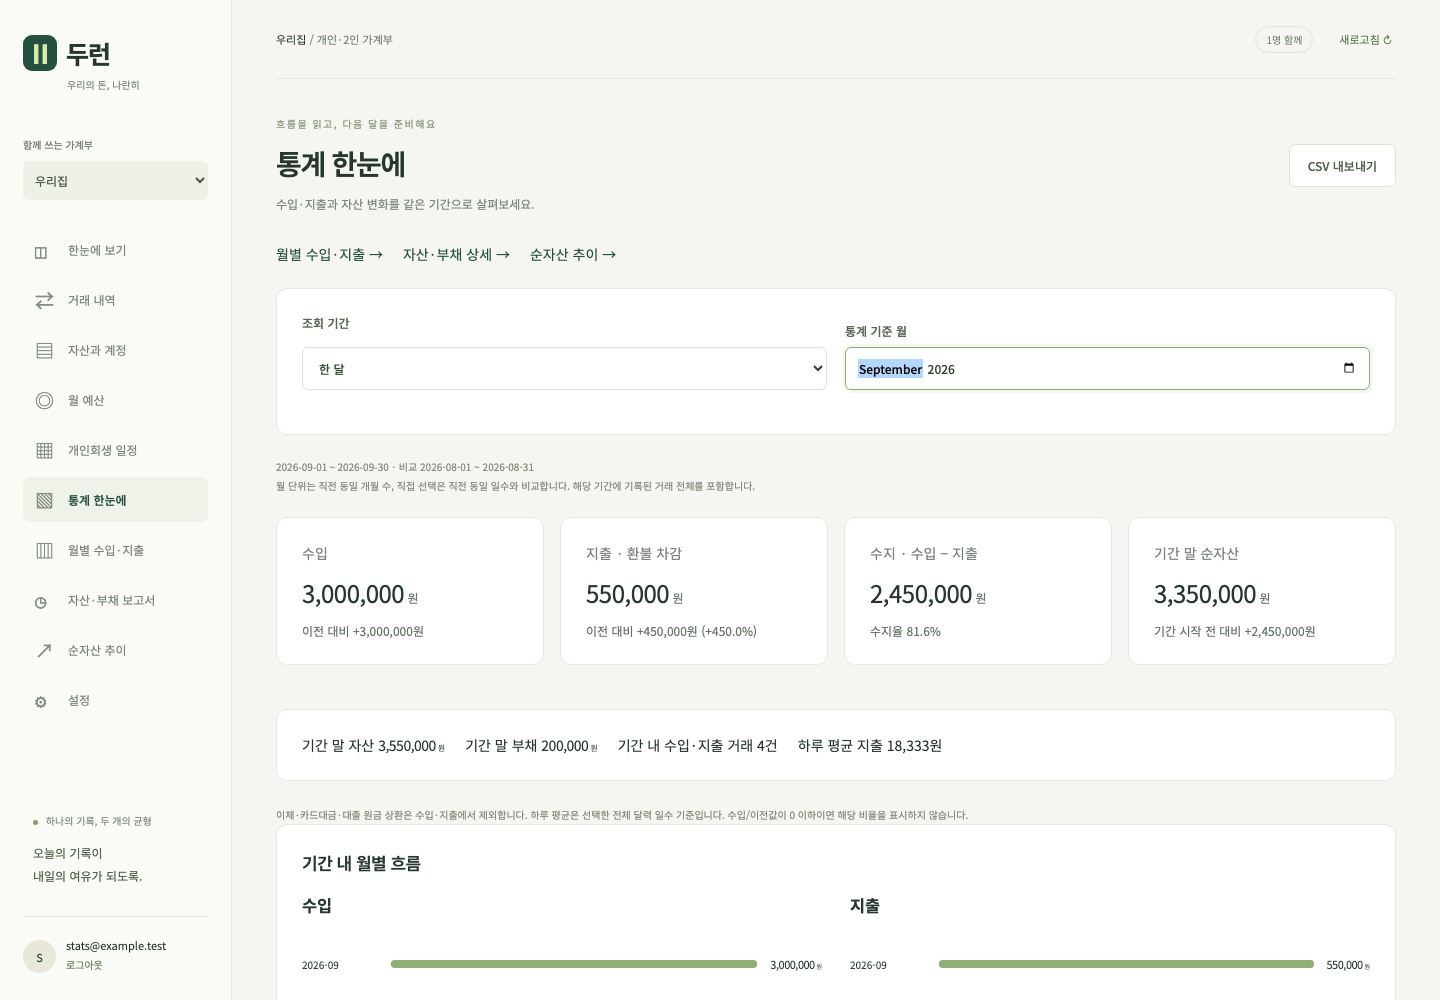
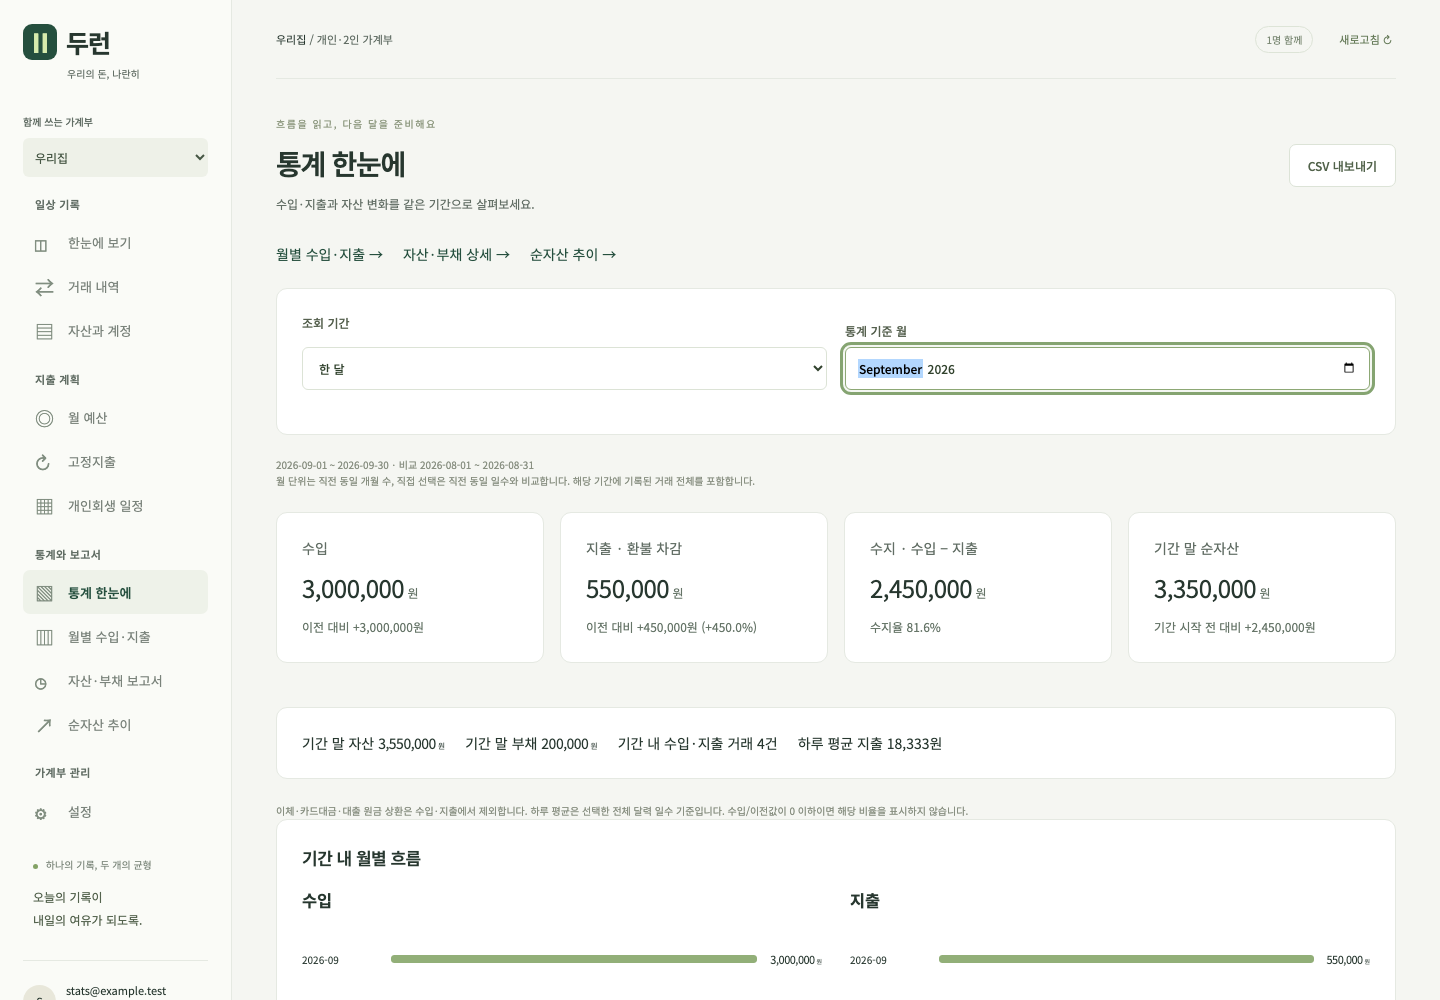
feat: improve mobile navigation and shared UI accessibility

diff --git a/app/layouts/default.vue b/app/layouts/default.vue
@@ -17,6 +17,36 @@ const links = [
   ['/reports/net-worth', '↗', '순자산 추이'],
   ['/settings', '⚙', '설정'],
 ]
+const menuOpen = ref(false)
+const menuToggle = ref<HTMLButtonElement | null>(null)
+const menuPanel = ref<HTMLElement | null>(null)
+const groups = [
+  { title: '일상 기록', items: links.slice(0, 3) },
+  { title: '지출 계획', items: links.slice(3, 6) },
+  { title: '통계와 보고서', items: links.slice(6, 10) },
+  { title: '가계부 관리', items: links.slice(10) },
+]
+const primaryLinks = [links[0]!, links[1]!, links[4]!, links[6]!]
+function isActive(href: string) {
+  return href === '/reports' ? route.path === href : route.path.startsWith(href)
+}
+async function toggleMenu() {
+  menuOpen.value = !menuOpen.value
+  if (menuOpen.value) {
+    await nextTick()
+    menuPanel.value?.querySelector<HTMLAnchorElement>('a')?.focus()
+  }
+}
+function closeMenu() {
+  menuOpen.value = false
+  menuToggle.value?.focus()
+}
+watch(
+  () => route.path,
+  () => {
+    menuOpen.value = false
+  },
+)
 watch(
   () => auth.user.value?.id,
   async (id) => {
@@ -45,6 +75,7 @@ async function logout() {
 </script>
 <template>
   <div class="shell">
+    <a class="skip-link" href="#main-content">본문으로 건너뛰기</a>
     <aside class="sidebar">
       <NuxtLink to="/dashboard" class="brand"
         ><span class="brand-mark">Ⅱ</span> 두런<span class="brand-caption"
@@ -58,17 +89,20 @@ async function logout() {
           <option v-for="h in households" :key="h.id" :value="h.id">{{ h.name }}</option>
         </select>
       </div>
-      <nav aria-label="주 메뉴">
-        <NuxtLink
-          v-for="[href, icon, label] in links"
-          :key="href"
-          :to="href!"
-          :class="{
-            active: href === '/reports' ? route.path === href : route.path.startsWith(href!),
-          }"
-          ><span aria-hidden="true">{{ icon }}</span
-          >{{ label }}</NuxtLink
-        >
+      <nav class="desktop-navigation" aria-label="주 메뉴">
+        <div v-for="group in groups" :key="group.title" class="navigation-group">
+          <p class="navigation-title">{{ group.title }}</p>
+          <NuxtLink
+            v-for="[href, icon, label] in group.items"
+            :key="href"
+            :to="href!"
+            :class="{ active: isActive(href!) }"
+            :aria-current="isActive(href!) ? 'page' : undefined"
+          >
+            <span aria-hidden="true">{{ icon }}</span
+            >{{ label }}
+          </NuxtLink>
+        </div>
       </nav>
       <div class="sidebar-note">
         <span class="status-dot"></span> 하나의 기록, 두 개의 균형
@@ -82,7 +116,34 @@ async function logout() {
         </div>
       </div>
     </aside>
-    <main class="main">
+    <main id="main-content" class="main" tabindex="-1">
+      <section
+        v-if="menuOpen"
+        id="mobile-menu"
+        ref="menuPanel"
+        class="mobile-menu panel"
+        aria-label="전체 메뉴"
+        @keydown.esc.prevent="closeMenu"
+      >
+        <div class="section-title">
+          <h2>전체 메뉴</h2>
+          <button class="text-button" @click="closeMenu">닫기 ✕</button>
+        </div>
+        <nav aria-label="전체 화면">
+          <div v-for="group in groups" :key="group.title" class="navigation-group">
+            <p class="navigation-title">{{ group.title }}</p>
+            <NuxtLink
+              v-for="[href, icon, label] in group.items"
+              :key="href"
+              :to="href!"
+              :class="{ active: isActive(href!) }"
+              :aria-current="isActive(href!) ? 'page' : undefined"
+              ><span aria-hidden="true">{{ icon }}</span
+              >{{ label }}</NuxtLink
+            >
+          </div>
+        </nav>
+      </section>
       <header class="topbar">
         <span
           >{{ current?.name || '새로운 시작' }} <span class="muted">/ 개인·2인 가계부</span></span
@@ -112,5 +173,25 @@ async function logout() {
         두런 <span>차곡차곡 기록하는 우리 집 이야기.</span><span>KRW · 원화 기준</span>
       </footer>
     </main>
+    <nav class="mobile-navigation" aria-label="빠른 이동">
+      <NuxtLink
+        v-for="[href, icon, label] in primaryLinks"
+        :key="href"
+        :to="href!"
+        :class="{ active: isActive(href!) }"
+        :aria-current="isActive(href!) ? 'page' : undefined"
+        ><span aria-hidden="true">{{ icon }}</span
+        >{{ label }}</NuxtLink
+      >
+      <button
+        ref="menuToggle"
+        :aria-expanded="menuOpen"
+        aria-controls="mobile-menu"
+        :class="{ active: menuOpen }"
+        @click="toggleMenu"
+      >
+        <span aria-hidden="true">☰</span>전체 메뉴
+      </button>
+    </nav>
   </div>
 </template>

diff --git a/app/assets/main.css b/app/assets/main.css
@@ -1897,3 +1897,191 @@ footer > span:last-child {
     flex: 1;
   }
 }
+
+/* Consistent navigation, readable supporting text, and touch targets. */
+:root {
+  --muted: #626e65;
+}
+.money,
+.money-value,
+input[type='number'],
+td {
+  font-variant-numeric: tabular-nums;
+}
+.skip-link {
+  position: fixed;
+  top: 8px;
+  left: 16px;
+  z-index: 100;
+  padding: 12px 18px;
+  background: var(--green);
+  color: white;
+  transform: translateY(-160%);
+  border-radius: 8px;
+}
+.skip-link:focus {
+  transform: translateY(0);
+}
+.sidebar {
+  overflow-y: auto;
+  padding-top: 24px;
+}
+.household-picker {
+  margin: 25px 0 18px;
+}
+.navigation-group + .navigation-group {
+  margin-top: 12px;
+}
+.navigation-title {
+  margin: 0 12px 6px;
+  font-size: 11px;
+  font-weight: 600;
+  color: var(--muted);
+  letter-spacing: 0.03em;
+}
+.sidebar nav a {
+  font-size: 13px;
+  padding: 10px 12px;
+  min-height: 44px;
+}
+.sidebar-note {
+  padding-top: 24px;
+}
+.mobile-navigation,
+.mobile-menu {
+  display: none;
+}
+.fineprint,
+.small,
+small {
+  line-height: 1.65;
+}
+input:focus-visible,
+select:focus-visible,
+textarea:focus-visible {
+  outline: 3px solid #85a471;
+  outline-offset: 2px;
+}
+@media (max-width: 760px) {
+  .sidebar .desktop-navigation {
+    display: none;
+  }
+  .sidebar {
+    overflow: visible;
+  }
+  .household-picker {
+    margin: 0;
+    max-width: 52%;
+  }
+  .main {
+    padding-bottom: calc(86px + env(safe-area-inset-bottom));
+  }
+  .topbar {
+    font-size: 12px;
+    margin-bottom: 20px;
+  }
+  .topbar > div {
+    gap: 4px;
+  }
+  .topbar .text-button {
+    min-height: 44px;
+    padding: 6px;
+  }
+  .member-badge {
+    display: none;
+  }
+  .page-heading p,
+  .fineprint,
+  .small,
+  small {
+    font-size: 12px;
+  }
+  .eyebrow {
+    font-size: 11px;
+  }
+  input,
+  select,
+  textarea {
+    font-size: 16px;
+    min-height: 44px;
+  }
+  .button,
+  button.button {
+    min-height: 44px;
+  }
+  .mobile-navigation {
+    display: grid;
+    grid-template-columns: repeat(5, minmax(0, 1fr));
+    position: fixed;
+    bottom: 0;
+    left: 0;
+    right: 0;
+    z-index: 30;
+    padding: 7px 8px calc(7px + env(safe-area-inset-bottom));
+    background: #fafbf7;
+    border-top: 1px solid var(--line);
+    box-shadow: 0 -4px 20px #27372f08;
+  }
+  .mobile-navigation a,
+  .mobile-navigation button {
+    display: flex;
+    flex-direction: column;
+    align-items: center;
+    justify-content: center;
+    gap: 4px;
+    min-height: 52px;
+    border: 0;
+    background: transparent;
+    border-radius: 8px;
+    color: var(--muted);
+    font-size: 10px;
+    white-space: nowrap;
+    padding: 4px 0;
+  }
+  .mobile-navigation span {
+    font-size: 21px;
+    line-height: 1;
+  }
+  .mobile-navigation .active {
+    color: var(--green);
+    background: #e7eedc;
+    font-weight: 700;
+  }
+  .mobile-menu {
+    display: block;
+    margin-top: 18px;
+    padding: 18px;
+  }
+  .mobile-menu nav {
+    display: grid;
+    grid-template-columns: repeat(2, minmax(0, 1fr));
+    gap: 14px 8px;
+  }
+  .mobile-menu .navigation-group {
+    margin: 0;
+  }
+  .mobile-menu .navigation-title {
+    margin-left: 0;
+  }
+  .mobile-menu a {
+    display: flex;
+    gap: 6px;
+    align-items: center;
+    min-height: 44px;
+    font-size: 12px;
+    padding: 6px;
+    border-radius: 6px;
+  }
+  .mobile-menu a.active {
+    background: #e7eedc;
+    color: var(--green);
+    font-weight: 600;
+  }
+  .mobile-menu h2 {
+    margin: 0;
+  }
+  .mobile-save-actions,
+  .repayment-save {
+    bottom: calc(74px + env(safe-area-inset-bottom));
+  }
+}

diff --git a/tests/browser/ledger.spec.ts b/tests/browser/ledger.spec.ts
@@ -297,6 +297,24 @@ test('complete household journey, accounting inputs, reports, persistence reload
     animations: 'disabled',
   })
   await page.setViewportSize({ width: 390, height: 844 })
+  const quickNav = page.getByRole('navigation', { name: '빠른 이동' })
+  await expect(quickNav).toBeVisible()
+  await expect(quickNav.getByRole('link', { name: '한눈에 보기' })).toHaveAttribute(
+    'aria-current',
+    'page',
+  )
+  await quickNav.getByRole('button', { name: '전체 메뉴' }).click()
+  await expect(page.getByRole('navigation', { name: '전체 화면' })).toBeVisible()
+  await page.keyboard.press('Escape')
+  await expect(quickNav.getByRole('button', { name: '전체 메뉴' })).toBeFocused()
+  await quickNav.getByRole('button', { name: '전체 메뉴' }).click()
+  await page
+    .getByRole('navigation', { name: '전체 화면' })
+    .getByRole('link', { name: '월 예산', exact: true })
+    .click()
+  await expect(page).toHaveURL(/budgets/)
+  await expect(page.getByRole('navigation', { name: '전체 화면' })).toHaveCount(0)
+  await quickNav.getByRole('link', { name: '한눈에 보기' }).click()
   await page.screenshot({
     path: 'test-results/dashboard-mobile.png',
     fullPage: true,

diff --git a/docs/UI_UX.md b/docs/UI_UX.md
@@ -1,0 +1,21 @@
+# UI/UX 개선 계획
+
+## Plan
+기존 초록색 브랜드와 회계 동작을 유지한다. 모바일 가로 스크롤 메뉴를 주요 화면 하단 탐색과 펼칠 수 있는 전체 메뉴로 대체한다. 데스크톱 메뉴는 일상 기록·지출 계획·통계·설정으로 묶는다. 현재 위치, 키보드 탐색, 숫자와 보조 문구의 가독성을 개선한다.
+
+## Do
+레이아웃과 공통 스타일만 변경한다. 전체 메뉴는 모달이 아닌 문서 내 펼침 영역으로 제공하고 이동·Escape 시 닫는다. 데이터와 인증 로직은 유지한다.
+
+## Check
+타입 검사·빌드·기존 브라우저 시나리오 및 모바일 메뉴 열기/이동/닫기·320px 너비를 확인한다. HTTP 모의 Supabase를 사용하며 운영 인증 검증과 구분한다.
+
+## Check 결과
+- `npm run typecheck`: 통과.
+- `npm run build`: 통과.
+- `npm run test:ui`: 5개 시나리오 통과. 모바일 전체 메뉴 열기, Escape 닫기 및 포커스 복귀, 월 예산 이동 후 메뉴 닫기를 추가 검증했다. 기존 320px/390px 화면 너비 검증도 통과했다.
+- 데스크톱 및 모바일 대시보드 캡처를 직접 확인했다. 기존 기능별 화면 캡처도 새 레이아웃으로 갱신했다.
+- 첫 브라우저 실행은 재빌드 전 서버가 이전 자산을 참조하여 로그인 화면 로드에 실패했다. 서버 재시작 후 모든 시나리오가 통과했다.
+- 실제 Supabase 인증·이메일 및 운영 데이터는 검증하지 않았다. DB 변경이 없어 SQL 추가 적용은 필요하지 않다.
+
+## Act
+GitHub PR에서 검토 후 병합하면 연결된 Vercel 배포에 반영할 수 있다. 운영 배포 후 실제 휴대폰에서 하단 안전 영역과 입력 키보드 동작을 확인한다.
